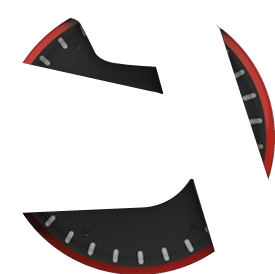
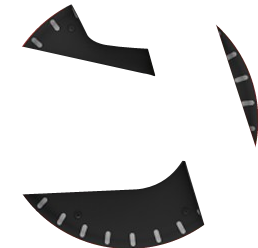
Update bike9.26

Changed region(s): [[0.062, 0.6492, 0.8062, 1.0], [0.062, 0.0, 0.6202, 0.3387], [0.7752, 0.0847, 1.0, 0.6492]]

diff --git a/public/javascripts/myscript.js b/public/javascripts/myscript.js
@@ -3,7 +3,7 @@ var positions = {'Schwinn AC Sportcycle':{'x':786,'y':599,'width':146,'height':1
 						'Schwinn ACPP Carbonblue':{'x':775,'y':705,'width':187,'height':187},
 						'Schwinn ACPP':{'x':775,'y':705,'width':187,'height':187},
 						'Schwinn IC Pro 20':{'x':760,'y':535,'width':246,'height':255},
-						'Star Trac Studio 7':{'x':659,'y':435,'width':275,'height':274},
+						'Star Trac Studio 7':{'x':667,'y':452,'width':258,'height':248},
 						'Schwinn IC Pro Cycle':{'x':891,'y':607,'width':328,'height':320},
 						'Star Trac Blade':{'x':806,'y':722,'width':334,'height':341},
 						'Star Trac NXT':{'x':815,'y':731,'width':300,'height':319},
@@ -104,7 +104,7 @@ var positions = {'Schwinn AC Sportcycle':{'x':786,'y':599,'width':146,'height':1
 					var img1 = jQuery.extend(true, {}, img);
 					wheel_img = img.set({ left: (this_wheel_position.x)*mockup_img.scaleX+mockup_img.left, top: (this_wheel_position.y)*mockup_img.scaleY+mockup_img.top, scaleX:wheel_x_rate, scaleY:wheel_y_rate, angle: 0, selectable:false});
 					canvas.add(wheel_img);
-					wheel_img1 = img1.set({ left: mockup_img.width*mockup_img.scaleX+mockup_img.left-250, top: (this_wheel_position.y)*mockup_img.scaleY+mockup_img.top-150, scaleX:wheel_x_rate, scaleY:wheel_y_rate, angle: 0, selectable:true});
+					wheel_img1 = img1.set({ left: mockup_img.width*mockup_img.scaleX+mockup_img.left-220, top: (this_wheel_position.y)*mockup_img.scaleY+mockup_img.top-180, scaleX:wheel_x_rate, scaleY:wheel_y_rate, angle: 0, selectable:true});
 					if(!hide_wheelflag)
 						canvas.add(wheel_img1);
 					canvas.renderAll();
